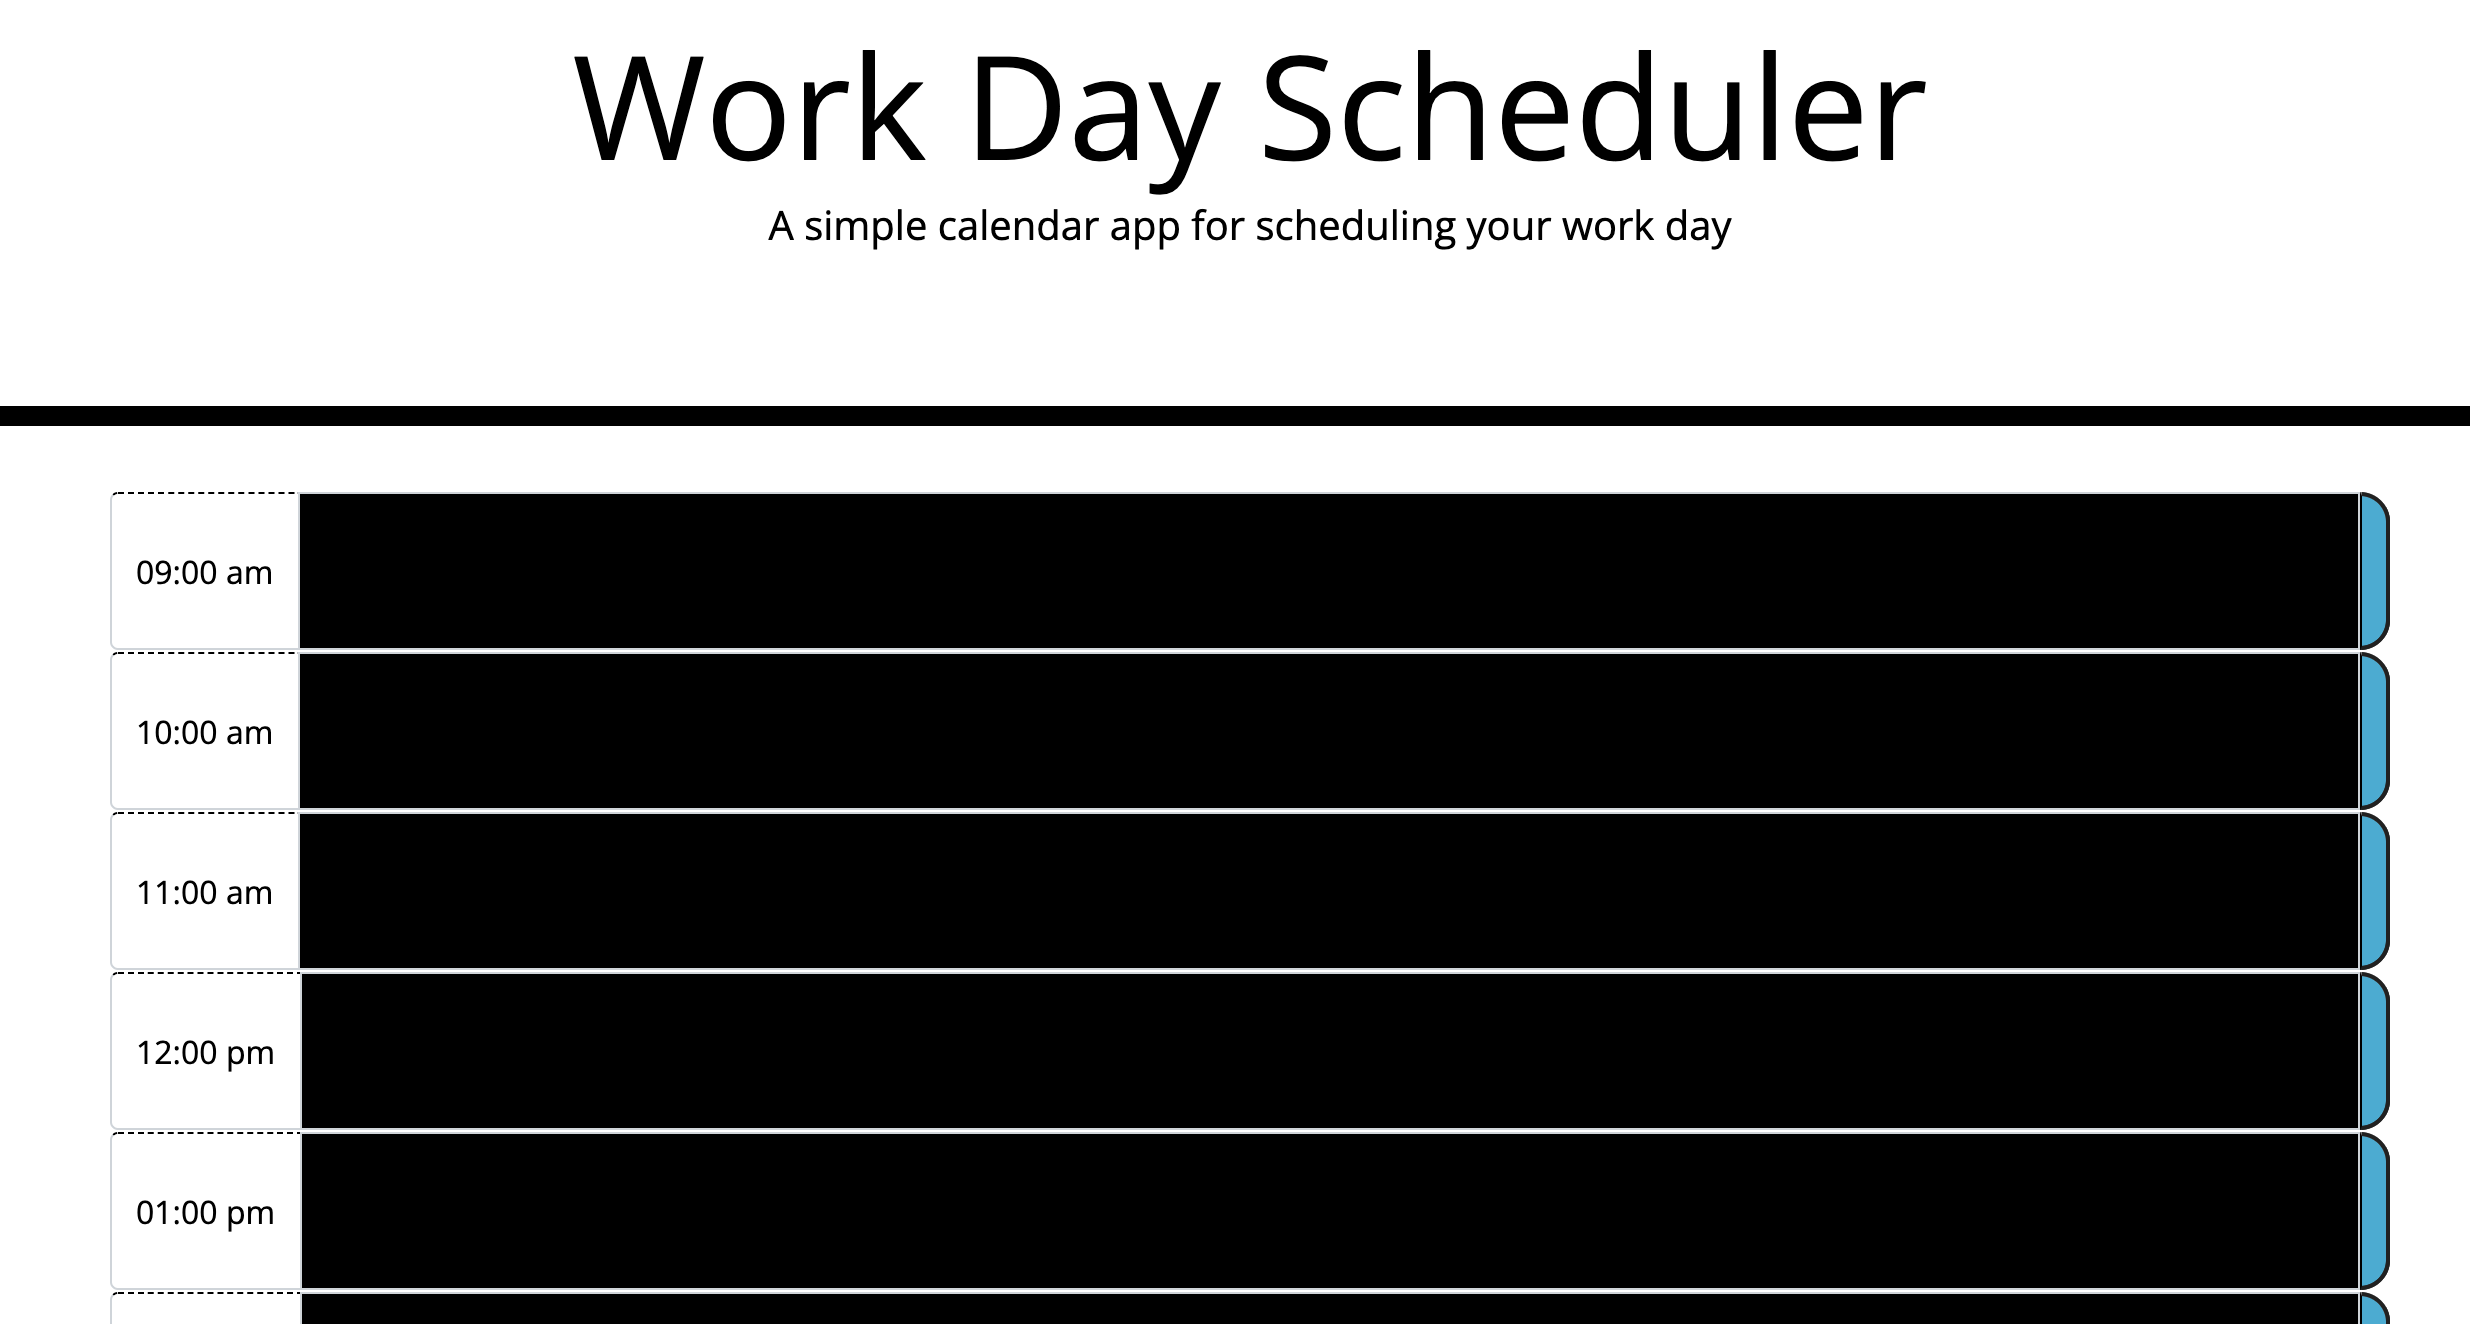
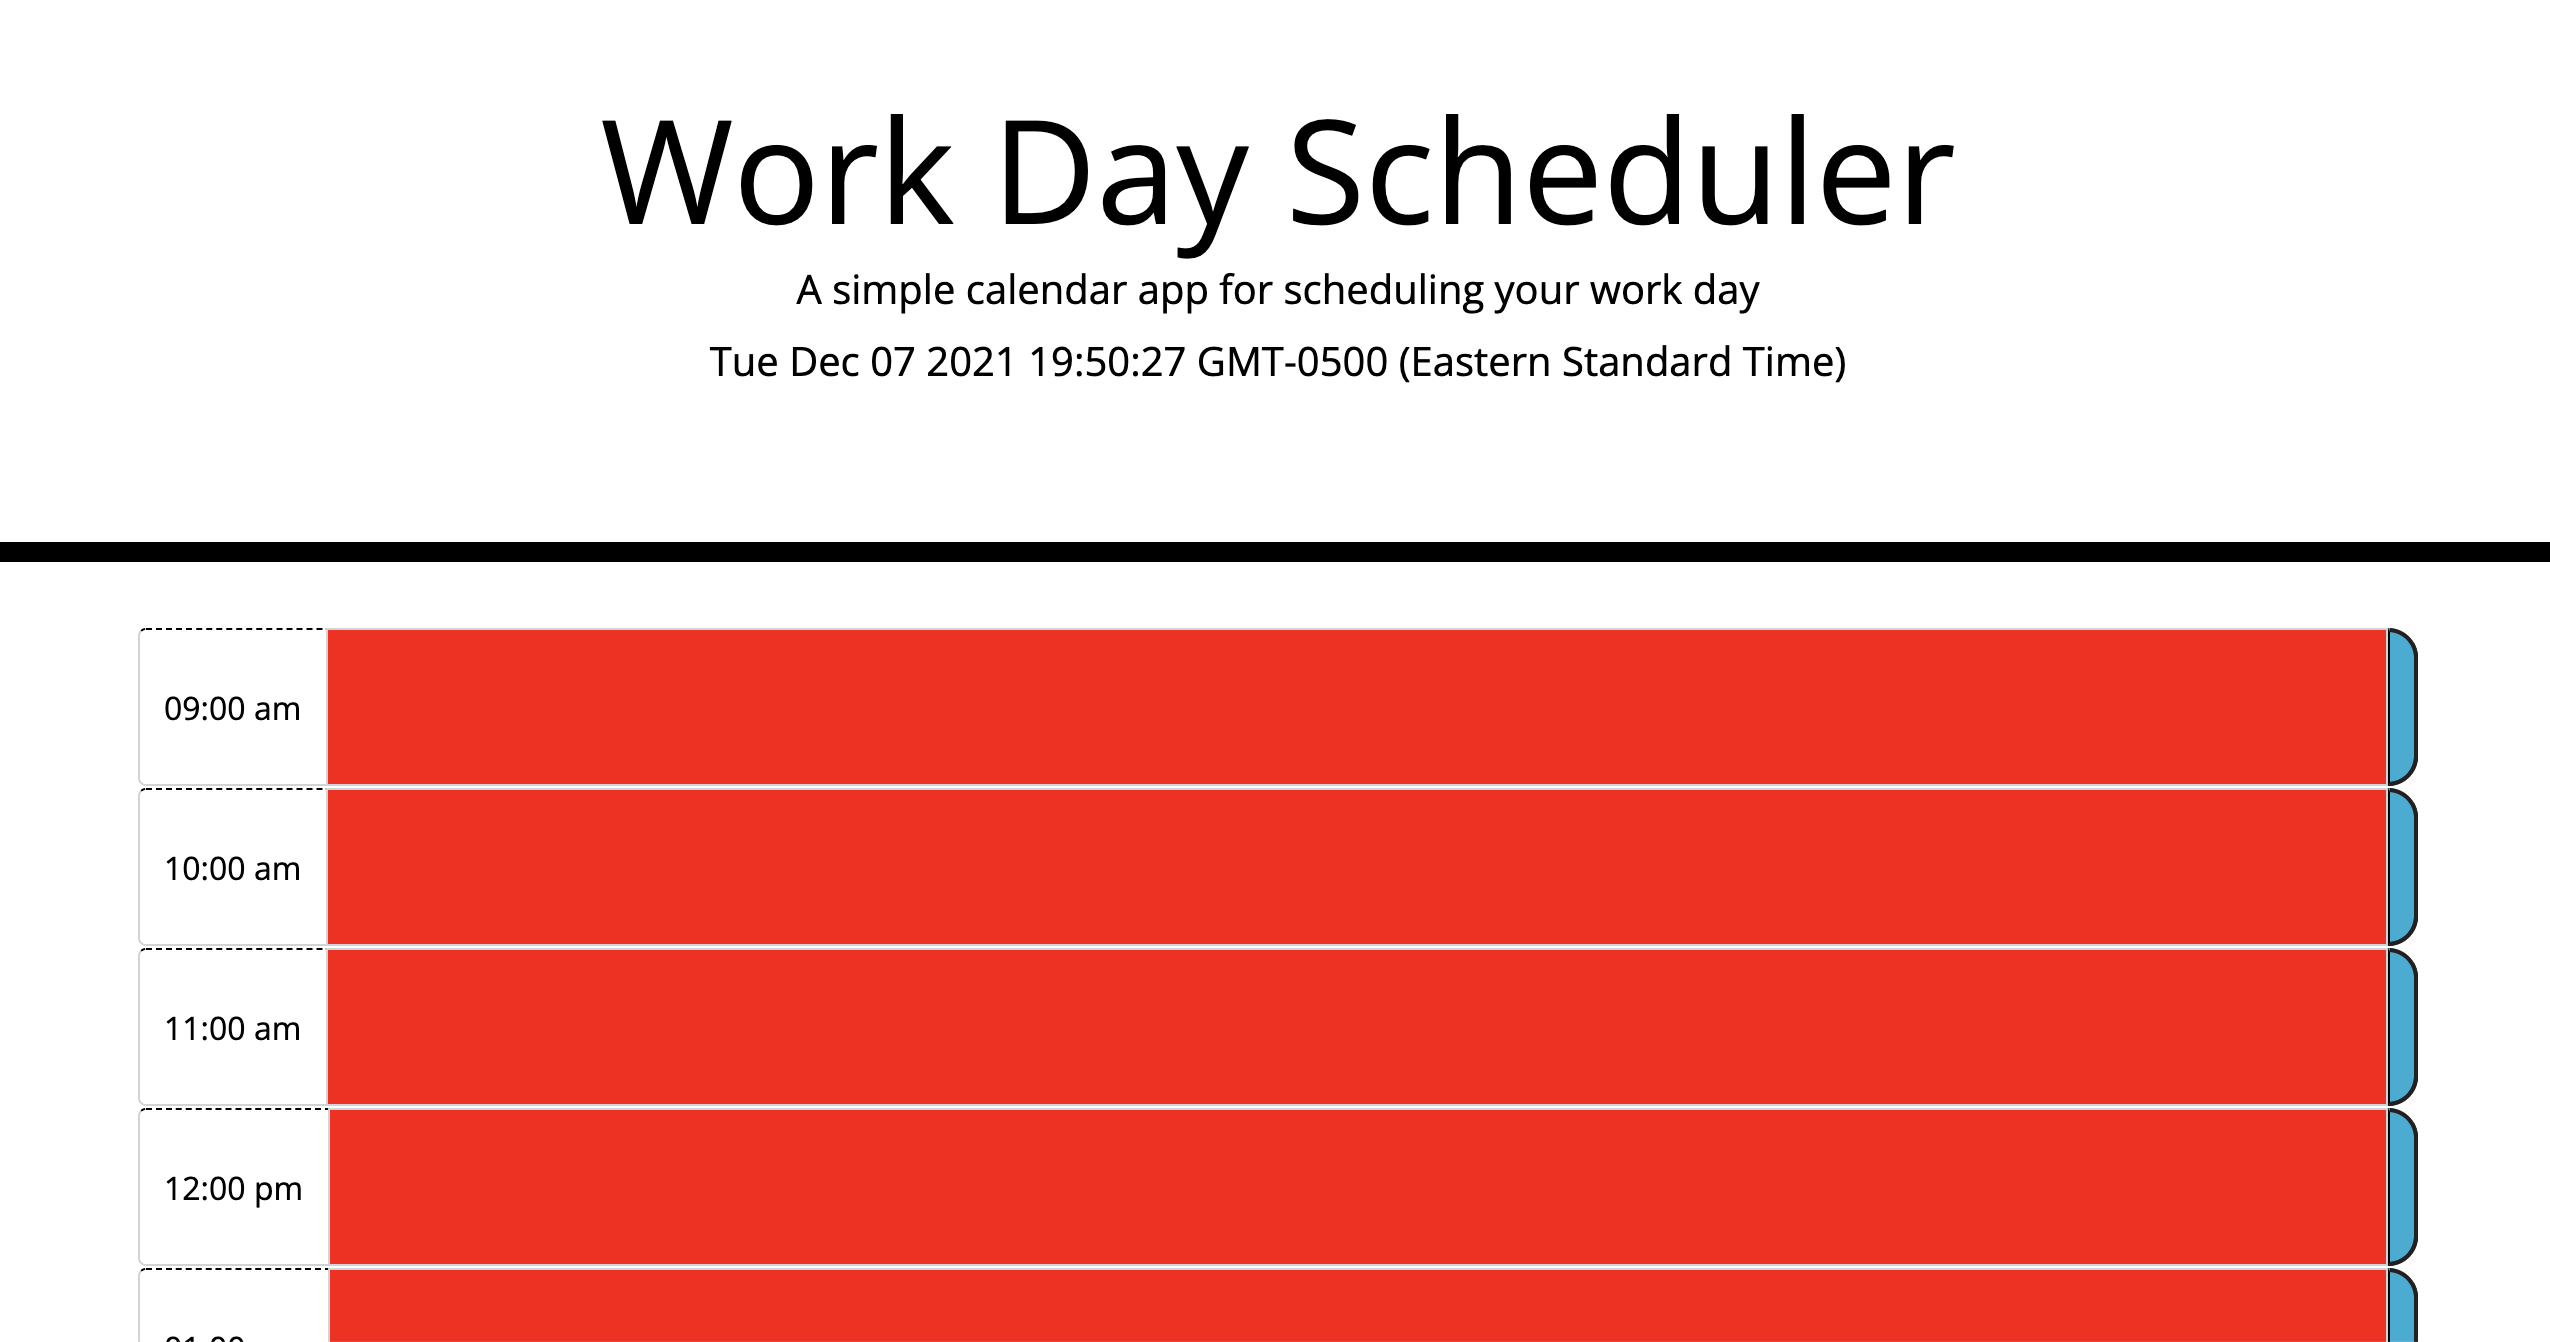
updates and fixes

diff --git a/index.html b/index.html
@@ -1,4 +1,4 @@
-<!DOCTYPE html>
+>
 <html lang="en">
   <head>
     <meta charset="UTF-8" />
@@ -23,7 +23,7 @@
   </head>
 
   <body>
-    
+   
     <header class="jumbotron">
       <h1 class="display-3">Work Day Scheduler</h1>
       <p class="lead">A simple calendar app for scheduling your work day</p>
@@ -36,88 +36,88 @@
           <div class="input-group-prepend">
             <span class="input-group-text hour">09:00 am </span>
           </div>
-          <textarea class="form-control blacked-out " aria-label="With textarea" id="9"></textarea>
-          <button onclick="saveTask()" type="button" class="saveBtn"></button>
+          <textarea class="form-control" aria-label="With textarea" id="9"></textarea>
+          <button onclick="saveTask('9')" type="button" class="saveBtn"></button>
         </div>
       </div>
-      
+     
       <div class="row">
         <div class="input-group">
           <div class="input-group-prepend">
             <span class="input-group-text hour">10:00 am </span>
           </div>
-          <textarea class="form-control blacked-out " aria-label="With textarea" id="10"></textarea>
-          <button onclick="saveTask()" type="button" class="saveBtn"></button>
+          <textarea class="form-control" aria-label="With textarea" id="10"></textarea>
+          <button onclick="saveTask('10')" type="button" class="saveBtn"></button>
         </div>
       </div>
-      
+     
       <div class="row">
         <div class="input-group">
           <div class="input-group-prepend">
             <span class="input-group-text hour">11:00 am </span>
           </div>
-          <textarea class="form-control blacked-out " aria-label="With textarea" id="11"></textarea>
-          <button onclick="saveTask()" type="button" class="saveBtn"></button>
+          <textarea class="form-control" aria-label="With textarea" id="11"></textarea>
+          <button onclick="saveTask('11')" type="button" class="saveBtn"></button>
         </div>
       </div>
-      
+     
       <div class="row">
         <div class="input-group">
           <div class="input-group-prepend">
             <span class="input-group-text hour">12:00 pm </span>
           </div>
-          <textarea class="form-control blacked-out " aria-label="With textarea" id="12"></textarea>
-          <button onclick="saveTask()" type="button" class="saveBtn"></button>
+          <textarea class="form-control" aria-label="With textarea" id="12"></textarea>
+          <button onclick="saveTask('12')" type="button" class="saveBtn"></button>
         </div>
       </div>
-      
+     
       <div class="row">
         <div class="input-group">
           <div class="input-group-prepend">
             <span class="input-group-text hour">01:00 pm </span>
           </div>
-          <textarea class="form-control blacked-out " aria-label="With textarea" id="13"></textarea>
-          <button onclick="saveTask()" type="button" class="saveBtn"></button>
+          <textarea class="form-control" aria-label="With textarea" id="13"></textarea>
+          <button onclick="saveTask('13')" type="button" class="saveBtn"></button>
         </div>
       </div>
-      
+     
       <div class="row">
         <div class="input-group">
           <div class="input-group-prepend">
             <span class="input-group-text hour">02:00 pm </span>
           </div>
-          <textarea class="form-control blacked-out " aria-label="With textarea" id="14"></textarea>
-          <button onclick="saveTask()" type="button" class="saveBtn"></button>
+          <textarea class="form-control" aria-label="With textarea" id="14"></textarea>
+          <button onclick="saveTask('14')" type="button" class="saveBtn"></button>
         </div>
       </div>
-      
+     
       <div class="row">
         <div class="input-group">
           <div class="input-group-prepend">
             <span class="input-group-text hour">03:00 pm </span>
           </div>
-          <textarea class="form-control blacked-out " aria-label="With textarea" id="15"></textarea>
-          <button onclick="saveTask()" type="button" class="saveBtn"></button>
+          <textarea class="form-control" aria-label="With textarea" id="15"></textarea>
+          <button onclick="saveTask('15')" type="button" class="saveBtn"></button>
         </div>
       </div>
-      
+     
       <div class="row">
         <div class="input-group">
           <div class="input-group-prepend">
             <span class="input-group-text hour">04:00 pm </span>
           </div>
-          <textarea class="form-control blacked-out " aria-label="With textarea" id="16"></textarea>
-          <button onclick="saveTask()" type="button" class="saveBtn"></button>
+          <textarea class="form-control" aria-label="With textarea" id="16"></textarea>
+          <button onclick="saveTask('16')" type="button" class="saveBtn"></button>
         </div>
       </div>
-      
+     
       <div class="row">
         <div class="input-group">
           <div class="input-group-prepend">
             <span class="input-group-text hour">05:00 pm </span>
           </div>
-          <textarea class="form-control blacked-out " aria-label="With textarea" id="17"></textarea>
-          <button onclick="saveTask()" type="button" class="saveBtn"></button>
+          <textarea class="form-control" aria-label="With textarea" id="17"></textarea>
+          <button onclick="saveTask('17')" type="button" class="saveBtn"></button>
 
 <script src="https://code.jquery.com/jquery-3.4.1.min.js"></script>
 <script src="https://cdnjs.cloudflare.com/ajax/libs/moment.js/2.24.0/moment.min.js"></script>

diff --git a/script.js b/script.js
@@ -1,21 +1,20 @@
-// Put the date at the top of the page
-var currentDate = moment().format('dddd') + " " + moment().format("Do MMM YYYY");
 // added tasks
 var tasks = {
-    9: [],
-    10: [],
-    11: [],
-    12: [],
-    13: [],
-    14: [],
-    15: [],
-    16: [],
-    17: [],
+    9: "",
+    10: "",
+    11: "",
+    12: "",
+    13: "",
+    14: "",
+    15: "",
+    16: "",
+    17: "",
 }
 // Created functions for the task
-function saveTask () {
-    var task = $("#9","#10","#11","#12","#13","#14","#15","#16","#17").val();
-    tasks[9] = task;
+function saveTask (taskId) {
+    tasks[taskId] = $(`#${taskId}`).val();
+    console.log(tasks);
+   
     saveTaskLocalStorage();
 }
 
@@ -28,19 +27,27 @@ function currentTime() {
     $(".form-control").each(function() {
         var taskTime=$(this).attr('id');
         if ( currentTime > taskTime) {
-            $(this).addClass("blacked-out");
+            $(this).addClass("past");
         }
-      }); 
+        else if ( currentTime < taskTime) {
+            $(this).addclass("future");
+        }
+         else {
+            $(this).addClass("current");
+         }
+      });
 }
 
 function getTaskLocalStorage() {
     tasks = JSON.parse(localStorage.getItem("tasks"));
-    $(".form-control").each(function() {
-        var taskTime=$(this).attr('id');
-        $("#"+taskTime).val(tasks[taskTime]);
 
-      });
+    for (const task in tasks) {
+      $(`#${task}`).val(tasks[task]);
+    }
 }
-// called the local storage
-getTaskLocalStorage();
-currentTime();
+
+$(document).ready(function() {
+  $("#currentDay").html(new Date());
+  getTaskLocalStorage();
+  currentTime();
+});

diff --git a/style.css b/style.css
@@ -72,3 +72,12 @@ textarea{
 .blacked-out {
   background-color: black;
 }
+.future {
+  background-color: green;
+}
+.past {
+  background-color: red;
+}
+.current {
+  background-color: white;
+}
